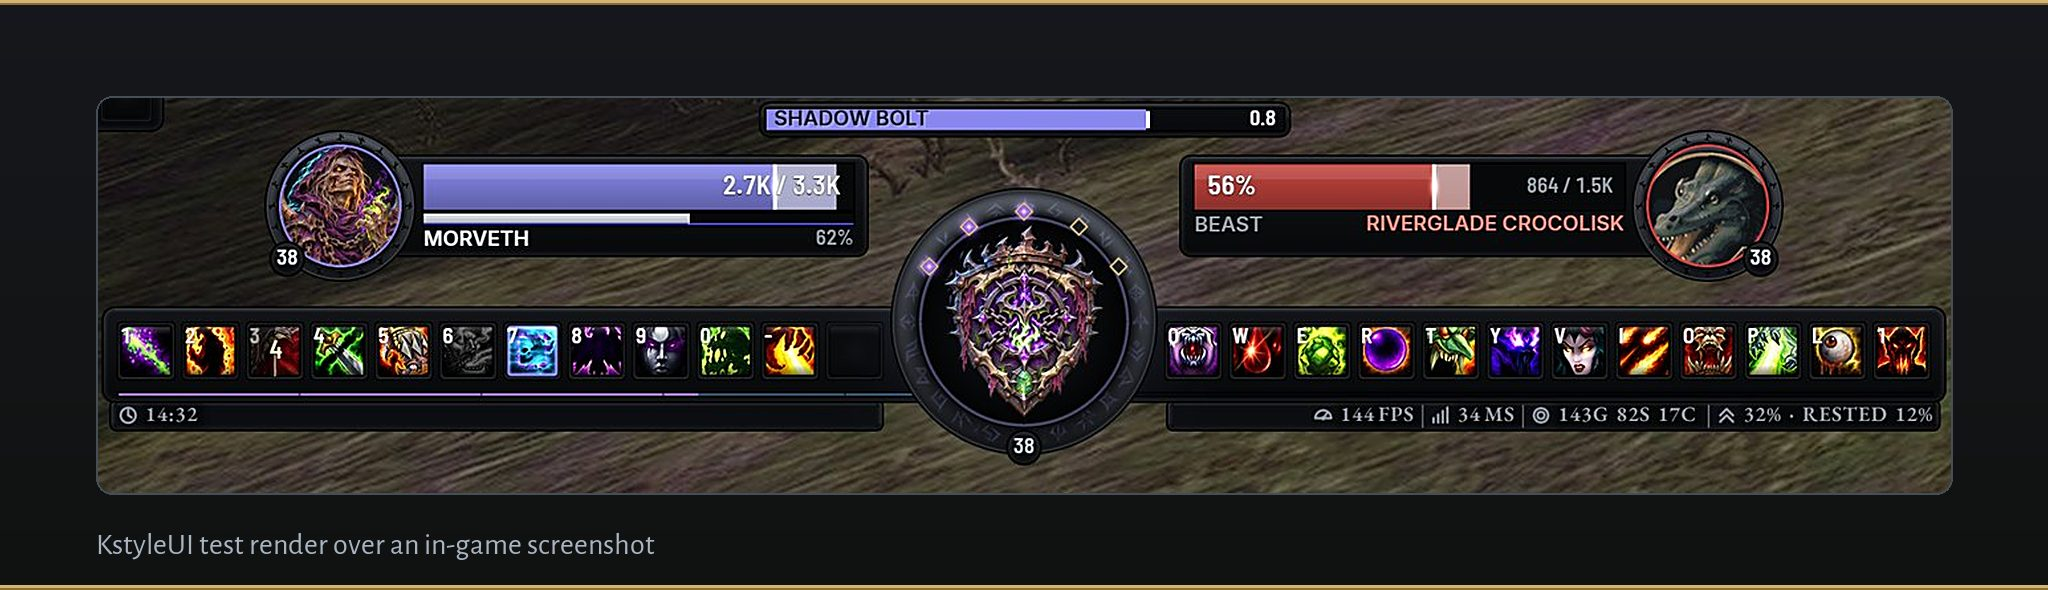
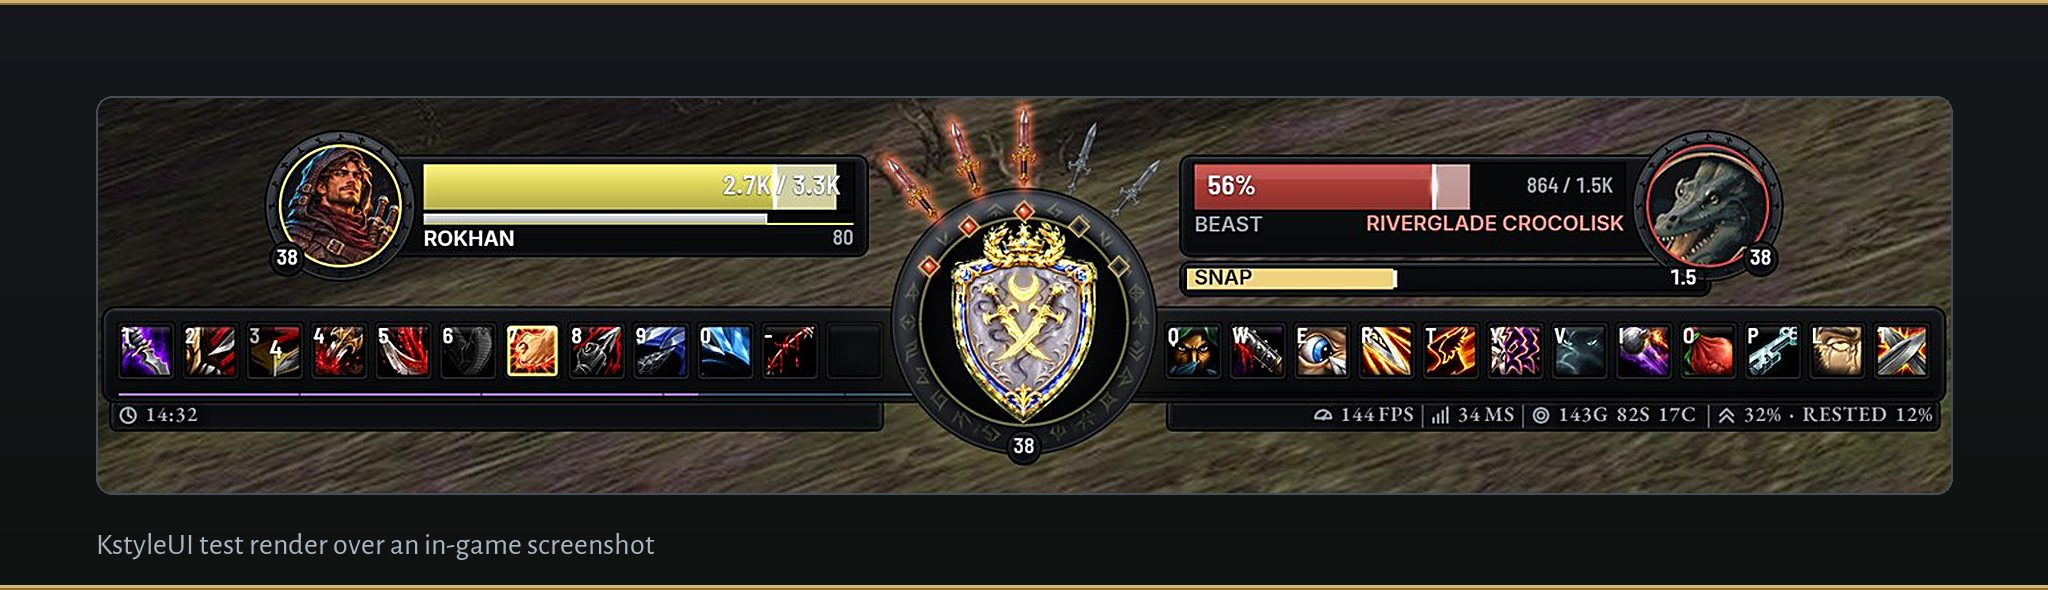
docs(store): rogue crest in the marketing crops (#691)
* docs(store): rogue crest in the marketing crops

Forever has no soul shards, so the crest and dock crops now render a rogue
with three of five combo points lit, over the same real forest plate, at the
same sizes and file names. The crest crop moves down 8 px so the combo pip
row above the hub is not clipped at its edge.

* docs(store): rogue crown of blades in the crest crops

Re-render the crest and dock crops after #678: the rogue's crown of blades
fans over the crest with three of five lit. The crest crop grows to
330x420 so the whole crown fits; captions name the crown.

---------

Changed region(s): [[0.125, 0.1525, 0.9375, 0.7322], [0.0625, 0.5492, 0.4062, 0.6407], [0.0312, 0.1831, 0.0938, 0.2136]]

diff --git a/Tools/render/readme.py b/Tools/render/readme.py
@@ -15,7 +15,7 @@ The pictures:
   ultrawide_centred, ultrawide_spread  the Healer layout on 5120x1440 in each ultrawide arrangement
   crop_*                               close crops of the 1080 HUD drawn at twice the density: the orbs and tray, the
                                        unit frames, the right rail, the group meter,
-                                       and the nameplate scene; a warlock's Medallions crest jewels and forged data
+                                       and the nameplate scene; a rogue's Medallions crest jewels and forged data
                                        dock; a world map road and flight route
   frame_*                              frames cut directly from the gallery scenes
 
@@ -68,7 +68,7 @@ for _arrangement in ("centred", "spread"):
 RENDERS["meter_party"] = ("hud_reference", 2.0, dict(HD, **dict(style_env("Frames"), RENDER_METER_GROUP="party")), "--strict")
 RENDERS["meter_both_2x"] = ("hud_reference", 2.0, dict(HD, **dict(style_env("Frames"), RENDER_METER_GROUP="party", RENDER_METER_CHOICE="both")), "--strict")
 RENDERS["plates"] = ("nameplate_bible", 2.0, {"RENDER_COMBAT": "1"}, "--strict")
-RENDERS["warlock_1080_2x"] = ("hud_warlock_mac", 2.0, dict(HD, **style_env("Medallions")), "--strict")
+RENDERS["rogue_1080_2x"] = ("hud_rogue_mac", 2.0, dict(HD, **style_env("Medallions")), "--strict")
 RENDERS["route_flight"] = ("worldmap_roads", 2.0, dict(HD, RENDER_MAP_TRIP="flight"), "--strict")
 
 GALLERIES = ("gallery_setup", "gallery_groupframes", "gallery_skins_character")
@@ -86,8 +86,8 @@ IMAGES = [
     ("crop_meter", "render:meter_party", "470x330+3340+1825", 540),
     ("crop_meters_both", "render:meter_both_2x", "980x330+2830+1825", 1120),
     ("crop_rail", "render:frames_1080_2x", "1100x1040+2720+20", 660),
-    ("crop_crest", "render:warlock_1080_2x", "328x320+1756+1822", 540),
-    ("crop_dock", "render:warlock_1080_2x", "1960x420+940+1740", 1400),
+    ("crop_crest", "render:rogue_1080_2x", "330x420+1755+1735", 540),
+    ("crop_dock", "render:rogue_1080_2x", "1960x420+940+1740", 1400),
     ("crop_route", "render:route_flight", "1385x968+900+640", 1000),
     ("ultrawide_centred", "render:healer_centred", None, 1600),
     ("ultrawide_spread", "render:healer_spread", None, 1600),

diff --git a/docs/store/curseforge.md b/docs/store/curseforge.md
@@ -122,15 +122,15 @@ Your first two action bars sit in recessed sockets on one dark slab: twelve butt
 
 Rogues and cat-form druids see their combo points on the crest itself, as cut jewels round the top of the ring (**Options, Action Bars, Crest resource jewels**). A jewel flares when you gain a point and drains when you spend one, and at the maximum the whole ring glows (**Glow at max**). Hunters with Summon Hawk get hawk perches on the ring, each hawk with a green timer for its time left (**Hawk perches**).
 
-![KstyleUI test render over an in-game screenshot of the Medallions crest: three resource jewels lit on the ring, two still dark](https://raw.githubusercontent.com/korallis/KstyleUI/main/docs/media/marketing/show_crop_crest.jpg)
+![KstyleUI test render over an in-game screenshot of the Medallions crest: a rogue's crown of blades over the ring, three of five blades and jewels lit for three combo points](https://raw.githubusercontent.com/korallis/KstyleUI/main/docs/media/marketing/show_crop_crest.jpg)
 
-*KstyleUI test render over an in-game screenshot: three of five jewels lit on the crest. Icons in this picture are the optional AI-made icon pack, not art shipped in the addon.*
+*KstyleUI test render over an in-game screenshot: a rogue's crown of blades and jewels, three of five combo points lit. Icons in this picture are the optional AI-made icon pack, not art shipped in the addon.*
 
 Under the slab, your data bar docks on forged plates: the clock on one side; frame rate, latency, gold and experience on the other, each in its own segment with an icon and gilt dividers.
 
-![KstyleUI test render over an in-game screenshot of the Medallions slab: both medallions, the jewelled crest, two rows of sockets and the forged data dock underneath](https://raw.githubusercontent.com/korallis/KstyleUI/main/docs/media/marketing/show_crop_dock.jpg)
+![KstyleUI test render over an in-game screenshot of the Medallions slab: both medallions, the jewelled crest under a rogue's crown of blades, two rows of sockets and the forged data dock underneath](https://raw.githubusercontent.com/korallis/KstyleUI/main/docs/media/marketing/show_crop_dock.jpg)
 
-*KstyleUI test render over an in-game screenshot: the slab, the crest and the forged data dock under it. Icons in this picture are the optional AI-made icon pack, not art shipped in the addon.*
+*KstyleUI test render over an in-game screenshot: the slab, the crest with its crown of blades and the forged data dock under it. Icons in this picture are the optional AI-made icon pack, not art shipped in the addon.*
 
 ![In-game screenshot of the Medallions HUD in combat, cropped to 16:9 from the ultrawide screenshot](https://raw.githubusercontent.com/korallis/KstyleUI/main/docs/media/readme/game_medallions_16x9.jpg)
 

diff --git a/docs/store/wago.md b/docs/store/wago.md
@@ -109,15 +109,15 @@ Your first two action bars sit in recessed sockets on one dark slab: twelve butt
 
 Rogues and cat-form druids see their combo points on the crest itself, as cut jewels round the top of the ring (**Options, Action Bars, Crest resource jewels**). A jewel flares when you gain a point and drains when you spend one, and at the maximum the whole ring glows (**Glow at max**). Hunters with Summon Hawk get hawk perches on the ring, each hawk with a green timer for its time left (**Hawk perches**).
 
-![KstyleUI test render over an in-game screenshot of the Medallions crest: three resource jewels lit on the ring, two still dark](https://raw.githubusercontent.com/korallis/KstyleUI/main/docs/media/marketing/show_crop_crest.jpg)
+![KstyleUI test render over an in-game screenshot of the Medallions crest: a rogue's crown of blades over the ring, three of five blades and jewels lit for three combo points](https://raw.githubusercontent.com/korallis/KstyleUI/main/docs/media/marketing/show_crop_crest.jpg)
 
-*KstyleUI test render over an in-game screenshot: three of five jewels lit on the crest. Icons in this picture are the optional AI-made icon pack, not art shipped in the addon.*
+*KstyleUI test render over an in-game screenshot: a rogue's crown of blades and jewels, three of five combo points lit. Icons in this picture are the optional AI-made icon pack, not art shipped in the addon.*
 
 Under the slab, your data bar docks on forged plates: the clock on one side; frame rate, latency, gold and experience on the other, each in its own segment with an icon and gilt dividers.
 
-![KstyleUI test render over an in-game screenshot of the Medallions slab: both medallions, the jewelled crest, two rows of sockets and the forged data dock underneath](https://raw.githubusercontent.com/korallis/KstyleUI/main/docs/media/marketing/show_crop_dock.jpg)
+![KstyleUI test render over an in-game screenshot of the Medallions slab: both medallions, the jewelled crest under a rogue's crown of blades, two rows of sockets and the forged data dock underneath](https://raw.githubusercontent.com/korallis/KstyleUI/main/docs/media/marketing/show_crop_dock.jpg)
 
-*KstyleUI test render over an in-game screenshot: the slab, the crest and the forged data dock under it. Icons in this picture are the optional AI-made icon pack, not art shipped in the addon.*
+*KstyleUI test render over an in-game screenshot: the slab, the crest with its crown of blades and the forged data dock under it. Icons in this picture are the optional AI-made icon pack, not art shipped in the addon.*
 
 ![In-game screenshot of the Medallions HUD in combat, cropped to 16:9 from the ultrawide screenshot](https://raw.githubusercontent.com/korallis/KstyleUI/main/docs/media/readme/game_medallions_16x9.jpg)
 

diff --git a/README.md b/README.md
@@ -92,15 +92,15 @@ Your first two action bars sit in recessed sockets on one dark slab: twelve butt
 
 Rogues and cat-form druids see their combo points on the crest itself, as cut jewels round the top of the ring (**Options, Action Bars, Crest resource jewels**). A jewel flares when you gain a point and drains when you spend one, and at the maximum the whole ring glows (**Glow at max**). Hunters with Summon Hawk get hawk perches on the ring, each hawk with a green timer for its time left (**Hawk perches**).
 
-![KstyleUI test render over an in-game screenshot of the Medallions crest: three resource jewels lit on the ring, two still dark](https://raw.githubusercontent.com/korallis/KstyleUI/main/docs/media/marketing/show_crop_crest.jpg)
+![KstyleUI test render over an in-game screenshot of the Medallions crest: a rogue's crown of blades over the ring, three of five blades and jewels lit for three combo points](https://raw.githubusercontent.com/korallis/KstyleUI/main/docs/media/marketing/show_crop_crest.jpg)
 
-*KstyleUI test render over an in-game screenshot: three of five jewels lit on the crest. Icons in this picture are the optional AI-made icon pack, not art shipped in the addon.*
+*KstyleUI test render over an in-game screenshot: a rogue's crown of blades and jewels, three of five combo points lit. Icons in this picture are the optional AI-made icon pack, not art shipped in the addon.*
 
 Under the slab, your data bar docks on forged plates: the clock on one side; frame rate, latency, gold and experience on the other, each in its own segment with an icon and gilt dividers.
 
-![KstyleUI test render over an in-game screenshot of the Medallions slab: both medallions, the jewelled crest, two rows of sockets and the forged data dock underneath](https://raw.githubusercontent.com/korallis/KstyleUI/main/docs/media/marketing/show_crop_dock.jpg)
+![KstyleUI test render over an in-game screenshot of the Medallions slab: both medallions, the jewelled crest under a rogue's crown of blades, two rows of sockets and the forged data dock underneath](https://raw.githubusercontent.com/korallis/KstyleUI/main/docs/media/marketing/show_crop_dock.jpg)
 
-*KstyleUI test render over an in-game screenshot: the slab, the crest and the forged data dock under it. Icons in this picture are the optional AI-made icon pack, not art shipped in the addon.*
+*KstyleUI test render over an in-game screenshot: the slab, the crest with its crown of blades and the forged data dock under it. Icons in this picture are the optional AI-made icon pack, not art shipped in the addon.*
 
 ![In-game screenshot of the Medallions HUD in combat, cropped to 16:9 from the ultrawide screenshot](https://raw.githubusercontent.com/korallis/KstyleUI/main/docs/media/readme/game_medallions_16x9.jpg)
 

diff --git a/docs/store/description.md b/docs/store/description.md
@@ -86,15 +86,15 @@ Your first two action bars sit in recessed sockets on one dark slab: twelve butt
 
 Rogues and cat-form druids see their combo points on the crest itself, as cut jewels round the top of the ring (**Options, Action Bars, Crest resource jewels**). A jewel flares when you gain a point and drains when you spend one, and at the maximum the whole ring glows (**Glow at max**). Hunters with Summon Hawk get hawk perches on the ring, each hawk with a green timer for its time left (**Hawk perches**).
 
-![KstyleUI test render over an in-game screenshot of the Medallions crest: three resource jewels lit on the ring, two still dark](https://raw.githubusercontent.com/korallis/KstyleUI/main/docs/media/marketing/show_crop_crest.jpg)
+![KstyleUI test render over an in-game screenshot of the Medallions crest: a rogue's crown of blades over the ring, three of five blades and jewels lit for three combo points](https://raw.githubusercontent.com/korallis/KstyleUI/main/docs/media/marketing/show_crop_crest.jpg)
 
-*KstyleUI test render over an in-game screenshot: three of five jewels lit on the crest. Icons in this picture are the optional AI-made icon pack, not art shipped in the addon.*
+*KstyleUI test render over an in-game screenshot: a rogue's crown of blades and jewels, three of five combo points lit. Icons in this picture are the optional AI-made icon pack, not art shipped in the addon.*
 
 Under the slab, your data bar docks on forged plates: the clock on one side; frame rate, latency, gold and experience on the other, each in its own segment with an icon and gilt dividers.
 
-![KstyleUI test render over an in-game screenshot of the Medallions slab: both medallions, the jewelled crest, two rows of sockets and the forged data dock underneath](https://raw.githubusercontent.com/korallis/KstyleUI/main/docs/media/marketing/show_crop_dock.jpg)
+![KstyleUI test render over an in-game screenshot of the Medallions slab: both medallions, the jewelled crest under a rogue's crown of blades, two rows of sockets and the forged data dock underneath](https://raw.githubusercontent.com/korallis/KstyleUI/main/docs/media/marketing/show_crop_dock.jpg)
 
-*KstyleUI test render over an in-game screenshot: the slab, the crest and the forged data dock under it. Icons in this picture are the optional AI-made icon pack, not art shipped in the addon.*
+*KstyleUI test render over an in-game screenshot: the slab, the crest with its crown of blades and the forged data dock under it. Icons in this picture are the optional AI-made icon pack, not art shipped in the addon.*
 
 ![In-game screenshot of the Medallions HUD in combat, cropped to 16:9 from the ultrawide screenshot](https://raw.githubusercontent.com/korallis/KstyleUI/main/docs/media/readme/game_medallions_16x9.jpg)
 
